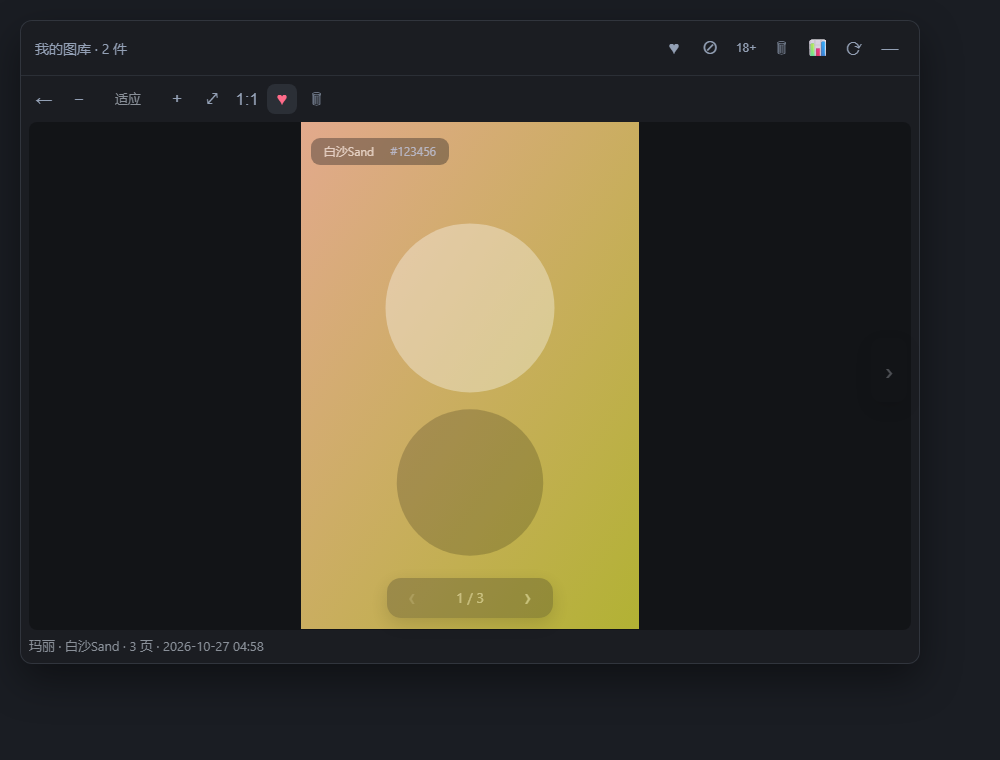
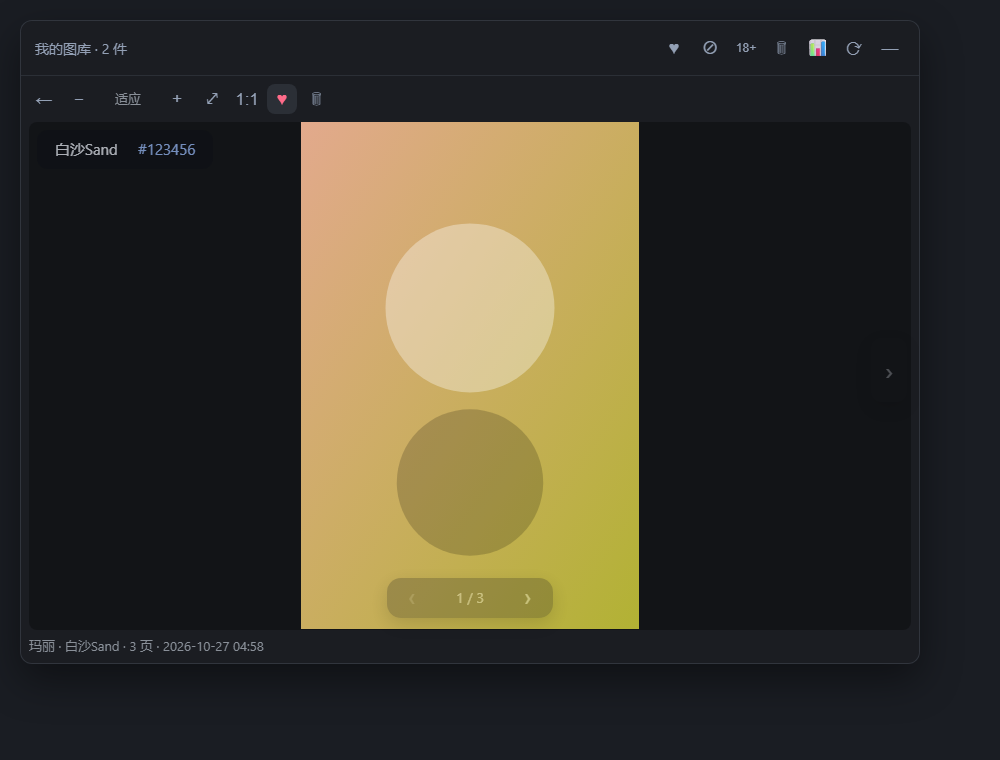
角标：改成钉在看图区左上角（不再贴着图片走），字号 12→15、内边距加大

Changed region(s): [[0.31, 0.1816, 0.465, 0.2421], [0.062, 0.1816, 0.186, 0.2118]]

diff --git a/lib/client.js b/lib/client.js
@@ -164,9 +164,9 @@ window.__ModuleLoader__.load({
 .gxg-bar{flex:1;height:8px;border-radius:4px;background:rgba(128,140,160,.15);overflow:hidden}
 .gxg-bar i{display:block;height:100%;border-radius:4px;background:linear-gradient(90deg,#679efe,#8f7bff)}
 .gxg-stats-hint{font-size:11px;color:var(--dsw-alias-label-tertiary,#8a9099);line-height:1.6}
-.gxg-badge{position:absolute;display:flex;align-items:center;gap:6px;z-index:3;padding:4px 8px;border-radius:9px;background:rgba(14,16,22,.62);backdrop-filter:blur(2px);font-size:12px;line-height:1.4;opacity:.55;transition:opacity .16s ease;user-select:text;max-width:calc(100% - 20px)}
+.gxg-badge{position:absolute;left:8px;top:8px;display:flex;align-items:center;gap:8px;z-index:3;padding:7px 12px;border-radius:11px;background:rgba(14,16,22,.72);backdrop-filter:blur(3px);font-size:15px;line-height:1.4;opacity:.72;transition:opacity .16s ease;user-select:text;max-width:calc(100% - 16px)}
 .gxg-view:hover .gxg-badge{opacity:1}
-.gxg-badge-item{cursor:pointer;border-radius:5px;padding:1px 5px;color:#e8ecf4;white-space:nowrap;overflow:hidden;text-overflow:ellipsis;max-width:240px}
+.gxg-badge-item{cursor:pointer;border-radius:6px;padding:2px 6px;color:#e8ecf4;white-space:nowrap;overflow:hidden;text-overflow:ellipsis;max-width:280px}
 .gxg-badge-item:hover{background:rgba(255,255,255,.16)}
 .gxg-badge-item[data-disabled="true"]{cursor:default;color:#8a9099}
 .gxg-badge-item[data-disabled="true"]:hover{background:transparent}
@@ -865,7 +865,7 @@ window.__ModuleLoader__.load({
         const img = document.createElement('img')
         img.draggable = false
         img.alt = item.title || 'image'
-        img.onload = () => { applyZoom(label); positionBadge() }
+        img.onload = () => applyZoom(label)
         box.append(img)
 
         const pages = Array.isArray(item.files) && item.files.length ? item.files.slice() : [item.thumb]
@@ -938,18 +938,6 @@ window.__ModuleLoader__.load({
         badge.append(artistEl, idEl)
         badge.addEventListener('mousedown', (ev) => ev.stopPropagation())
 
-        function positionBadge() {
-          if (!img || !badge) return
-          const wr = imgWrap.getBoundingClientRect()
-          const ir = img.getBoundingClientRect()
-          if (ir.width < 40 || ir.height < 40) { badge.style.visibility = 'hidden'; return }
-          badge.style.visibility = 'visible'
-          const left = Math.max(6, ir.left - wr.left)
-          const top = Math.max(6, ir.top - wr.top)
-          badge.style.left = `${left + 10}px`
-          badge.style.top = `${top + 10}px`
-          badge.style.bottom = 'auto'
-        }
         const cap = document.createElement('div')
         cap.className = 'gxg-cap'
         const when = String(item.savedAt || '').replace('T', ' ').slice(0, 16)
@@ -980,7 +968,6 @@ window.__ModuleLoader__.load({
         const imgWrap = document.createElement('div')
         imgWrap.className = 'gxg-imgwrap'
         imgWrap.append(box, badge)
-        window.addEventListener('resize', positionBadge)
         if (pages.length > 1) imgWrap.append(pager)
 
         wrap.append(bar, imgWrap, cap, navPrev, navNext)
